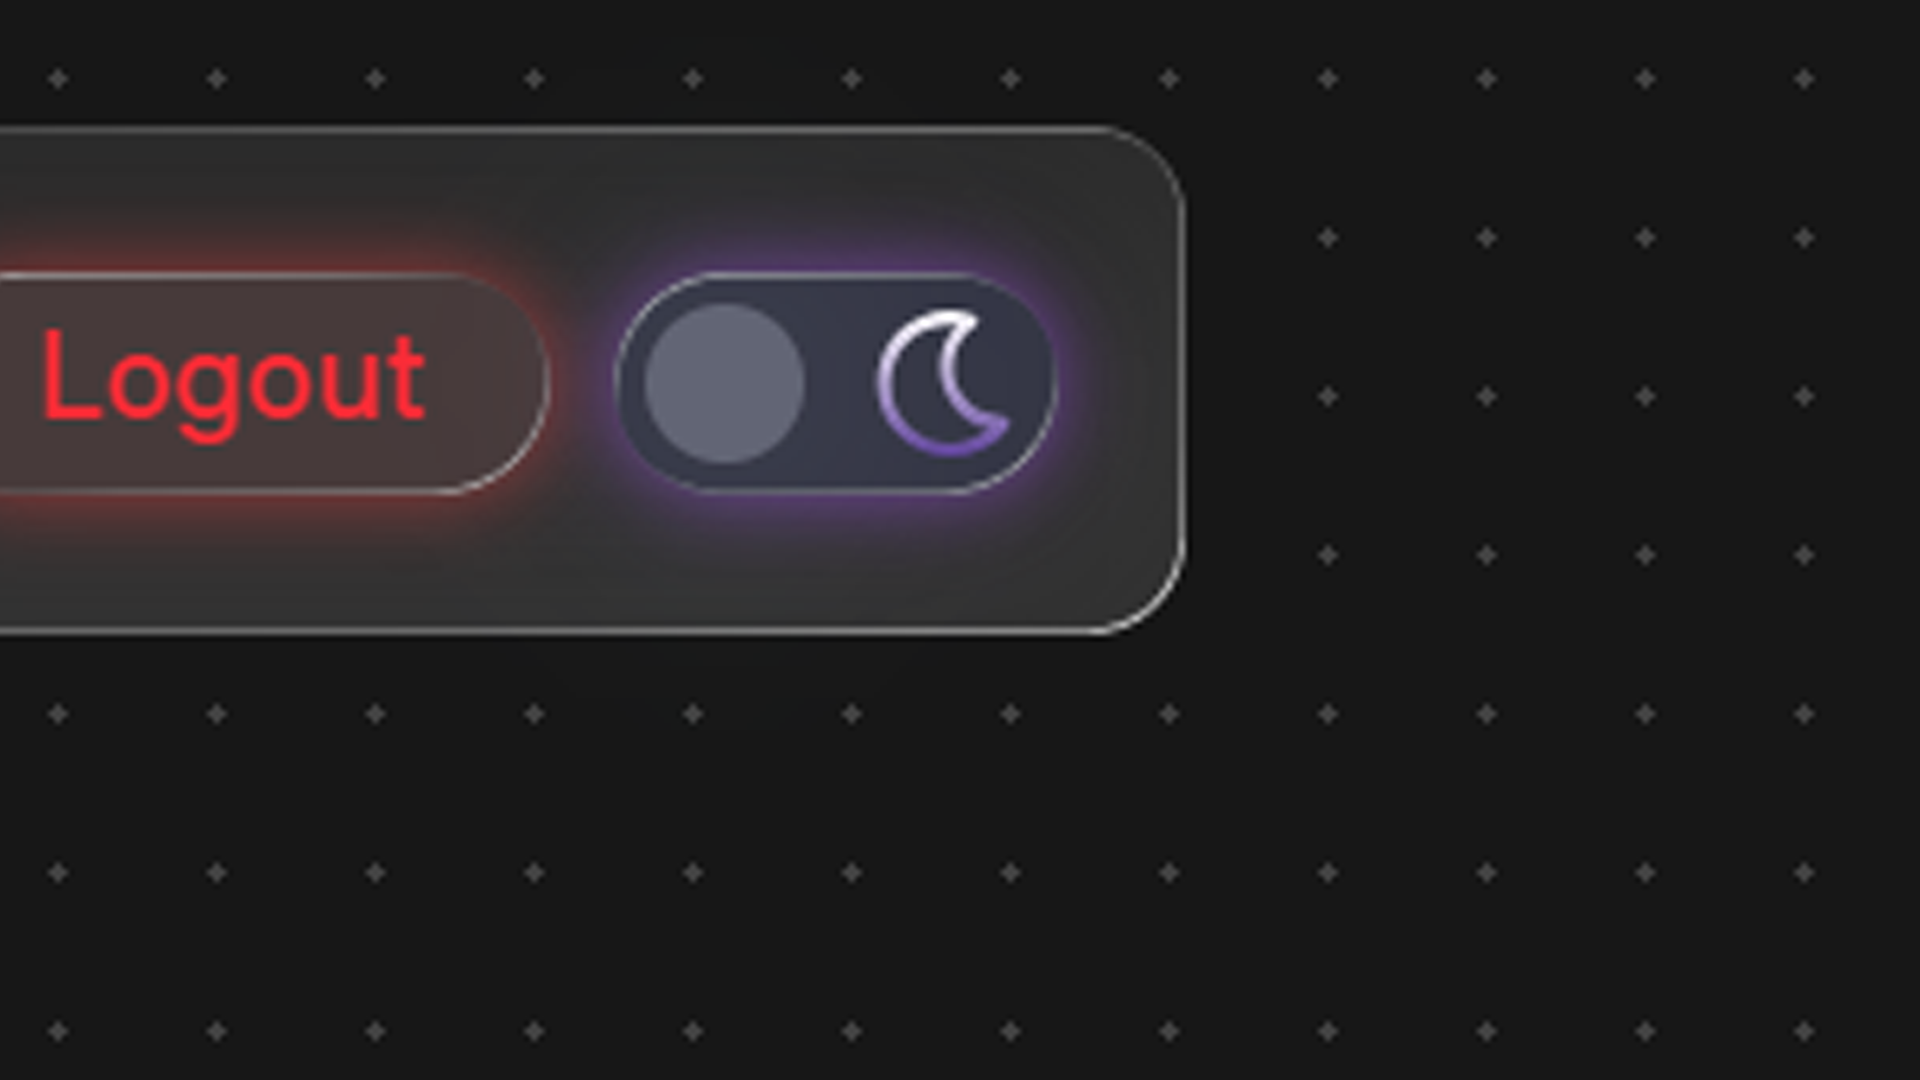
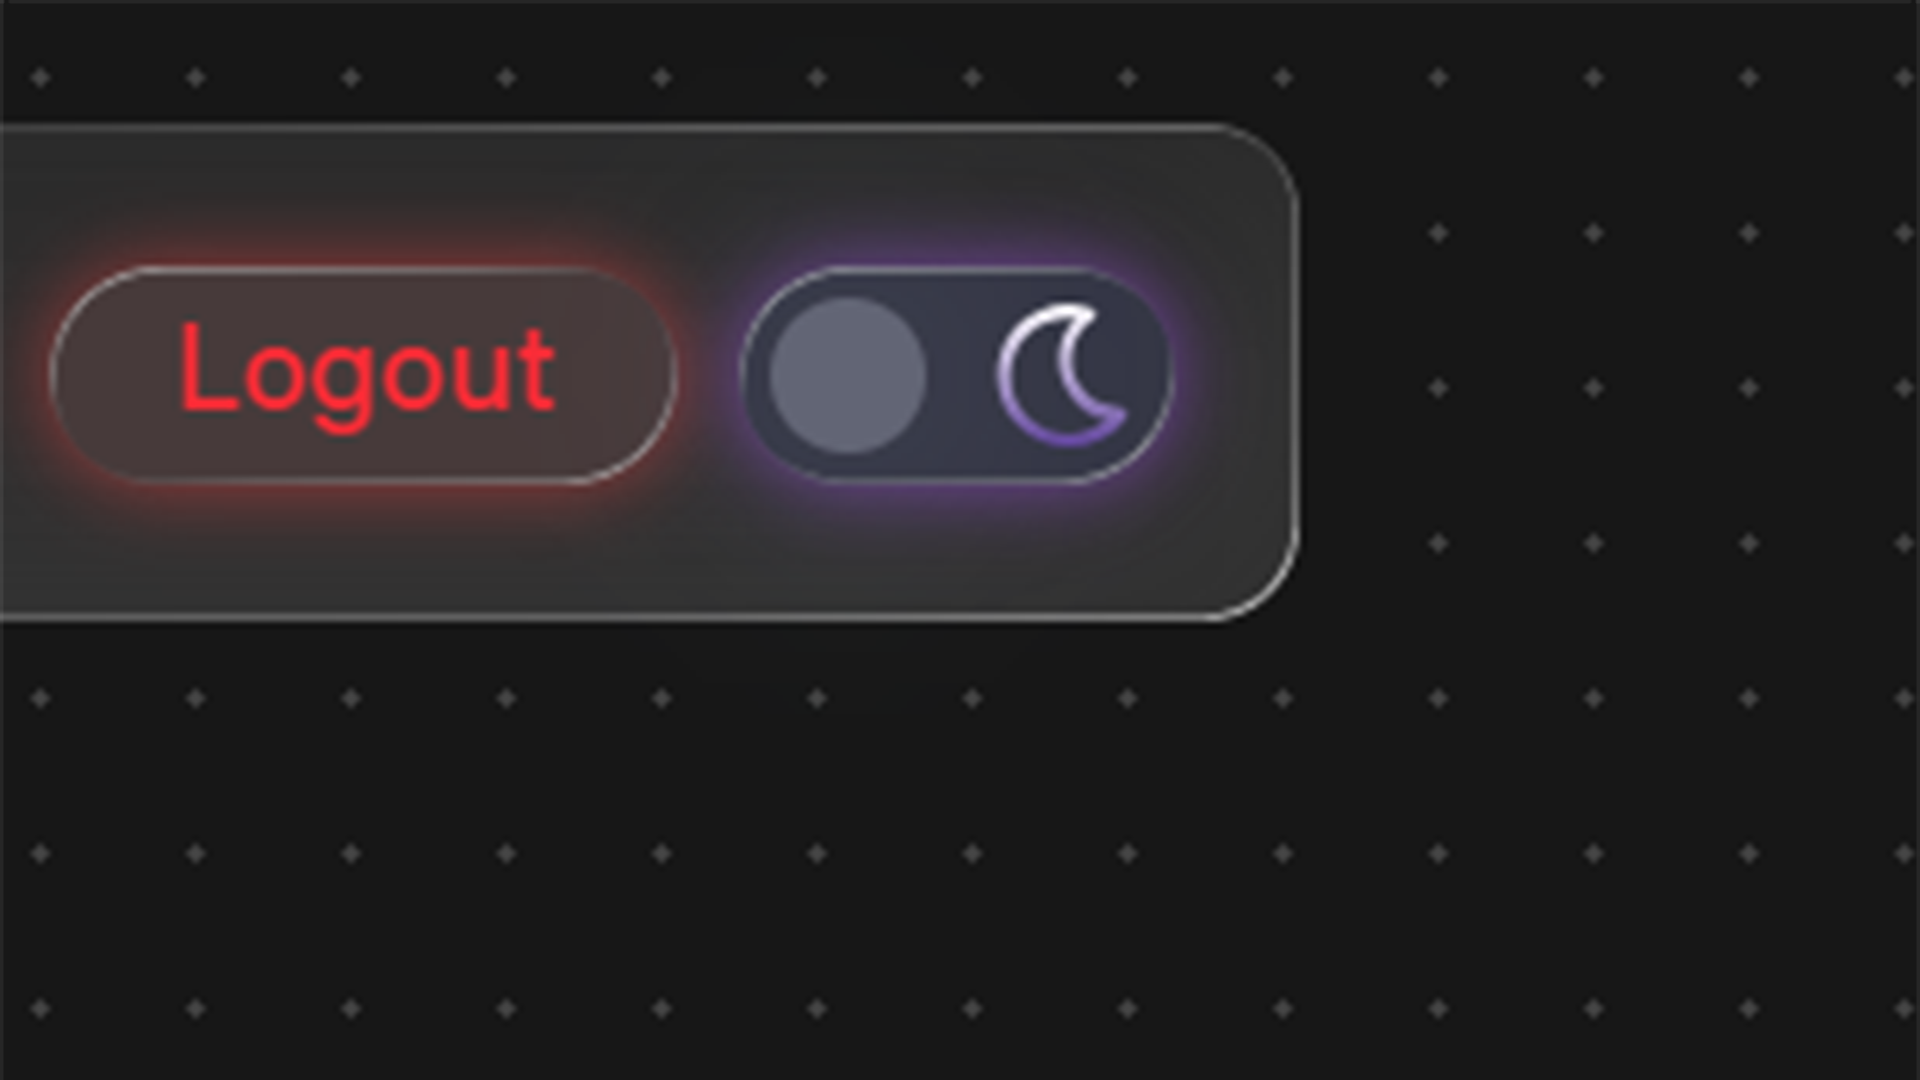
update

diff --git a/frontend/src/pages/Login.jsx b/frontend/src/pages/Login.jsx
@@ -12,6 +12,7 @@ import closeIconLight from "../assets/icons/cross_icon_light.svg"
 import kb_features_1 from "../assets/kb_features_1.png"
 import kb_features_2 from "../assets/kb_features_2.png"
 import kb_features_3 from "../assets/kb_features_3.png"
+import kb_features_1_light from "../assets/kb_features_1_light.png"
 import lightBeam from "../assets/light-beam.png";
 import Clipboard3D from "../assets/clipboard-3d.png";
 import spotlight from "../assets/spotlight.png";
@@ -24,8 +25,8 @@ function Login() {
   const [currentCardIndex, setCurrentCardIndex] = useState(0);
 
   const featureCards = [
-    { id: 1, tag: "Action", title: "Drag & Drop Tasks", description: "Move tasks effortlessly between workflow stages.", image: kb_features_1, tagColor: "text-purple-300/80" },
-    { id: 2, tag: "Theme", title: "Light & Dark Mode", description: "Switch between themes for a comfortable workspace.", image: kb_features_2, tagColor: "text-blue-300/80" },
+    { id: 1, tag: "Action", title: "Drag & Drop Tasks", description: "Move tasks effortlessly between workflow stages.", image: kb_features_2, tagColor: "text-purple-300/80" },
+    { id: 2, tag: "Theme", title: "Light & Dark Mode", description: "Switch between themes for a comfortable workspace.", image: kb_features_1, lightImage: kb_features_1_light, tagColor: "text-blue-300/80" },
     { id: 3, tag: "Actions", title: "Drag to Delete", description: "Remove unwanted tasks with a simple drag.", image: kb_features_3, tagColor: "text-indigo-300/80" }
   ];
 
@@ -373,7 +374,7 @@ function Login() {
 
           {/* Desktop 3-Grid View */}
           <div className="hidden md:grid grid-cols-3 gap-6 lg:gap-8 w-full mt-12">
-            {/* Card 1 */}
+            {/* Card 1: Drag & Drop Tasks */}
             <div className={`relative min-h-[420px] rounded-[32px] overflow-hidden flex flex-col justify-between p-6 sm:p-8 backdrop-blur-xl transition-all duration-500 delay-300 ${isLightMode
               ? "bg-white border border-black/10"
               : "glass-effect-1 bg-white/5 border border-white/15"
@@ -382,7 +383,7 @@ function Login() {
               <div
                 className={`absolute inset-0 bg-cover bg-center blur-2xl scale-125 pointer-events-none transition-opacity duration-500 delay-300 ${isLightMode ? "opacity-0" : "opacity-70"
                   }`}
-                style={{ backgroundImage: `url(${kb_features_1})` }}
+                style={{ backgroundImage: `url(${kb_features_2})` }}
               />
               {/* Vignette & Gradient for crisp text at bottom */}
               <div
@@ -392,7 +393,7 @@ function Login() {
 
               {/* Floating Smaller Uncropped Image Preview */}
               <div className="relative z-10 w-full flex justify-center items-center pt-4 pb-6">
-                <div className={`w-[90%] rounded-2xl overflow-hidden transition-colors duration-500 delay-300 ${isLightMode ? "border border-black/10 bg-[#f4f4f6]" : "border border-white/20 bg-black/30"
+                <div className={`relative w-[90%] rounded-2xl overflow-hidden transition-colors duration-500 delay-300 ${isLightMode ? "border border-black/10 bg-[#f4f4f6]" : "border border-white/20 bg-black/30"
                   }`}>
                   <img src={kb_features_2} alt="Drag & Drop Tasks" className="w-full h-auto block" />
                 </div>
@@ -404,14 +405,14 @@ function Login() {
                   }`}>Action</p>
                 <h3 className={`text-2xl font-semibold tracking-tight transition-colors duration-500 delay-300 ${isLightMode ? "text-gray-900" : "text-white"
                   }`}>Drag & Drop Tasks</h3>
-                <p className={`text-base font-light md:text-lg  mt-1.5 leading-7 transition-colors duration-500 delay-300 ${isLightMode ? "text-gray-600" : "text-white/70"
+                <p className={`text-base font-light md:text-lg mt-1.5 leading-7 transition-colors duration-500 delay-300 ${isLightMode ? "text-gray-600" : "text-white/70"
                   }`}>
                   Move tasks effortlessly between workflow stages.
                 </p>
               </div>
             </div>
 
-            {/* Card 2 */}
+            {/* Card 2: Light & Dark Mode */}
             <div className={`relative min-h-[420px] rounded-[32px] overflow-hidden flex flex-col justify-between p-6 sm:p-8 backdrop-blur-xl transition-all duration-500 delay-300 ${isLightMode
               ? "bg-white border border-black/10"
               : "glass-effect-1 bg-white/5 border border-white/15"
@@ -419,7 +420,7 @@ function Login() {
               <div
                 className={`absolute inset-0 bg-cover bg-center blur-2xl scale-125 pointer-events-none transition-opacity duration-500 delay-300 ${isLightMode ? "opacity-0" : "opacity-70"
                   }`}
-                style={{ backgroundImage: `url(${kb_features_2})` }}
+                style={{ backgroundImage: `url(${kb_features_1})` }}
               />
               <div
                 className={`absolute inset-0 z-0 pointer-events-none bg-gradient-to-t from-black/90 via-black/30 to-black/20 transition-opacity duration-500 delay-300 ${isLightMode ? "opacity-0" : "opacity-100"
@@ -427,9 +428,22 @@ function Login() {
               />
 
               <div className="relative z-10 w-full flex justify-center items-center pt-4 pb-6">
-                <div className={`w-[90%] rounded-2xl overflow-hidden transition-colors duration-500 delay-300 ${isLightMode ? "border border-black/10 bg-[#f4f4f6]" : "border border-white/20 bg-black/30"
+                <div className={`relative w-[90%] rounded-2xl overflow-hidden transition-colors duration-500 delay-300 ${isLightMode ? "border border-black/10 bg-[#f4f4f6]" : "border border-white/20 bg-black/30"
                   }`}>
-                  <img src={kb_features_1} alt="Light & Dark Mode" className="w-full h-auto block" />
+                  {/* Dark Mode Image */}
+                  <img
+                    src={kb_features_1}
+                    alt="Dark Mode"
+                    className={`w-full h-auto block transition-opacity duration-500 delay-300 ${isLightMode ? "opacity-0" : "opacity-100"
+                      }`}
+                  />
+                  {/* Light Mode Image */}
+                  <img
+                    src={kb_features_1_light}
+                    alt="Light Mode"
+                    className={`absolute inset-0 w-full h-full object-cover transition-opacity duration-500 delay-300 ${isLightMode ? "opacity-100" : "opacity-0"
+                      }`}
+                  />
                 </div>
               </div>
 
@@ -534,13 +548,22 @@ function Login() {
                   />
 
                   <div className="relative z-10 w-full flex justify-center items-center pt-2 pb-4">
-                    <div className={`w-[95%] rounded-2xl overflow-hidden transition-colors duration-500 delay-300 ${isLightMode ? "border border-black/10 bg-[#f4f4f6]" : "border border-white/20 bg-black/30"
+                    <div className={`relative w-[95%] rounded-2xl overflow-hidden transition-colors duration-500 delay-300 ${isLightMode ? "border border-black/10 bg-[#f4f4f6]" : "border border-white/20 bg-black/30"
                       }`}>
                       <img
                         src={card.image}
                         alt={card.title}
-                        className="w-full h-auto block"
+                        className={`w-full h-auto block transition-opacity duration-500 delay-300 ${card.lightImage && isLightMode ? "opacity-0" : "opacity-100"
+                          }`}
                       />
+                      {card.lightImage && (
+                        <img
+                          src={card.lightImage}
+                          alt={card.title}
+                          className={`absolute inset-0 w-full h-full object-cover transition-opacity duration-500 delay-300 ${isLightMode ? "opacity-100" : "opacity-0"
+                            }`}
+                        />
+                      )}
                     </div>
                   </div>
 

diff --git a/frontend/src/components/Navbar.jsx b/frontend/src/components/Navbar.jsx
@@ -34,7 +34,7 @@ function Navbar({ className }) {
 
   return (
     <nav
-      className={`login-navbar mt-0 rounded-xl md:mt-4 [.light_&]:!bg-white [.light_&]:rounded-none h-16 w-full md:w-3xl md:mx-auto md:left-0 md:right-0 !fixed px-4 flex items-center justify-between z-50 ${isLoginPage ? "transition-all duration-500 delay-300 ease-out" : "transition-all duration-300 ease-out"
+      className={`login-navbar mt-0 rounded-xl md:mt-4 [.light_&]:!bg-white [.light_&]:rounded-[2px] h-16 w-full md:w-3xl md:mx-auto md:left-0 md:right-0 !fixed px-4 flex items-center justify-between z-50 ${isLoginPage ? "transition-all duration-500 delay-300 ease-out" : "transition-all duration-300 ease-out"
         } ${showNavbar
           ? "translate-y-0 opacity-100 scale-100"
           : "-translate-y-24 opacity-0 scale-95 pointer-events-none"
